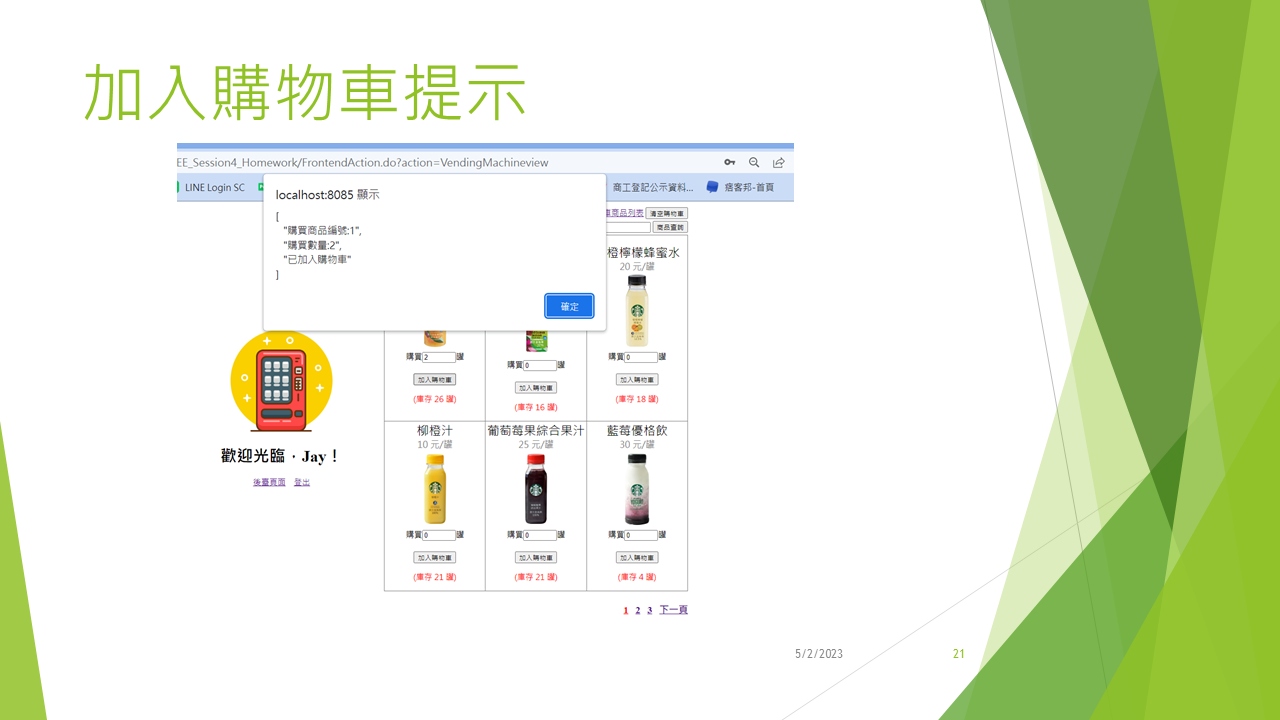
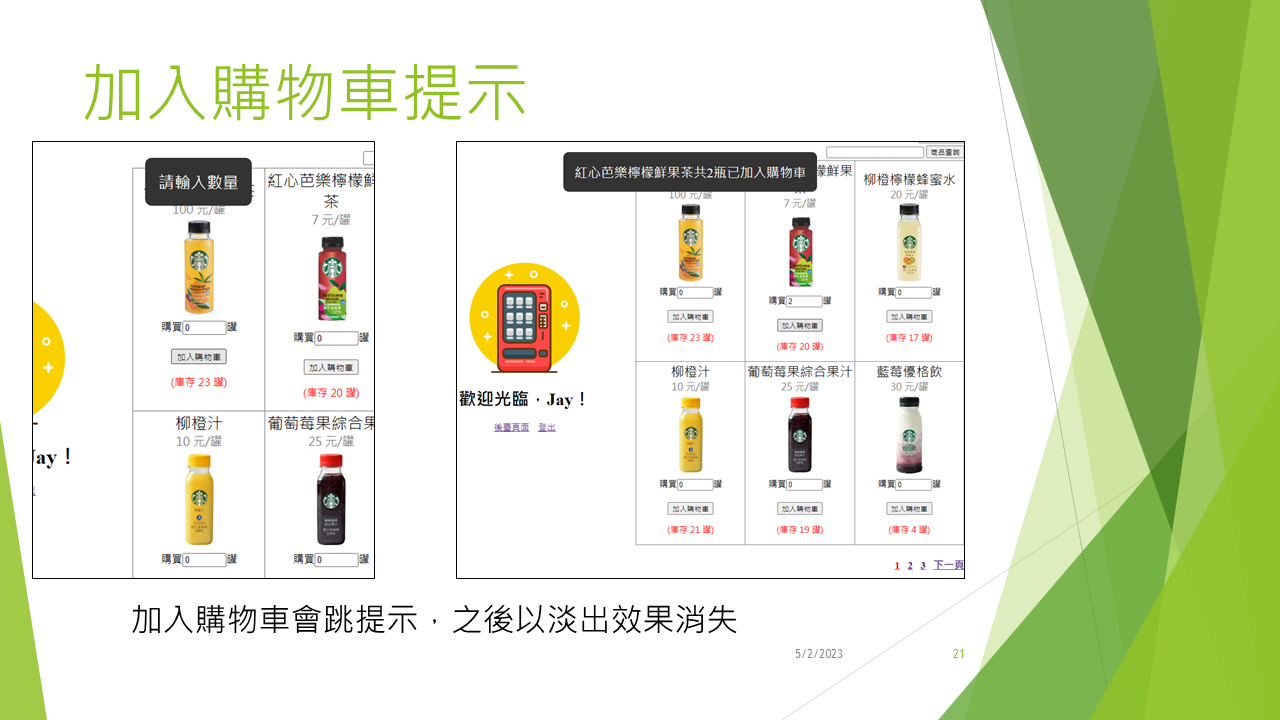
更新簡報及刪除不要的程式碼

Changed region(s): [[0.0938, 0.1833, 0.75, 0.8861], [0.0, 0.4278, 0.0625, 0.5806], [0.0312, 0.6111, 0.0625, 0.6417]]

diff --git a/src/com/training/action/FrontendAction.java b/src/com/training/action/FrontendAction.java
@@ -46,6 +46,8 @@ public class FrontendAction extends DispatchAction{
 		 form=null;
 		 return mapping.findForward("VendingMachine");
 	 }
+	 
+	 //購物車頁面
 	 public ActionForward CartGoodsview(ActionMapping mapping, ActionForm form, 
 	          HttpServletRequest request, HttpServletResponse response)  throws Exception{
 		 HttpSession session = request.getSession();
@@ -56,7 +58,7 @@ public class FrontendAction extends DispatchAction{
 		         Goods key = i.next();
 		         Goods updatedGoods = frontendServic.good(key.getGoodsID()); // 取得要更改的商品
 		         if (updatedGoods != null) {
-		           
+		           //為了避免選的商品在過程中被後台更改數量，所以在進入購物車頁面時會在更新一次商品數量
 		             key.setGoodsQuantity(updatedGoods.getGoodsQuantity());
 		         }
 		     }
@@ -122,9 +124,9 @@ public class FrontendAction extends DispatchAction{
 			HttpSession session = httpRequest.getSession();
 			Account account = (Account) session.getAttribute("account");
 
-		 List<String> buyQuantity =  new ArrayList();
-		 List<String>Values= new ArrayList();
-		ArrayList buyGoodsMsg = new ArrayList();
+		 List<String> buyQuantity =  new ArrayList<String>();
+		 List<String>Values= new ArrayList<String>();
+		ArrayList<String> buyGoodsMsg = new ArrayList<String>();
 		 Map<Goods, Integer>  carGoods= (Map<Goods, Integer>) session.getAttribute("carGoods");
 		 if(carGoods==null){
 			 buyGoodsMsg.add("購物車是空的，請選擇商品");
@@ -139,8 +141,15 @@ public class FrontendAction extends DispatchAction{
 				Values.add((key.getGoodsID()));
 				buyQuantity.add(value.toString());
 			}	 
-			int goodstotal = frontendServic.buyGoods(Values, buyQuantity, //算出總金額
-				 buygood.getInputMoney());
+			
+			//算出商品總金額
+			int goodstotal = 0;
+			for (Map.Entry<Goods, Integer> entry : carGoods.entrySet()) {
+			    Goods goods = entry.getKey();
+			    int quantity = entry.getValue();
+			    goodstotal += goods.getGoodsPrice() * quantity;
+			}
+
 		 boolean buyGood = false;
 		 if (buygood.getInputMoney() < goodstotal) {//判斷是否購買成功
 				buyGood = false;
@@ -157,43 +166,40 @@ public class FrontendAction extends DispatchAction{
 				session.setAttribute("buyGoodsMsg", buyGoodsMsg);
 				return mapping.findForward("CartGoodsview");
 			} else {
-				int x = buygood.getInputMoney();
+				int inputMoney = buygood.getInputMoney();
 				//key商品 vaule購買數量
-				Map<Goods, Integer> kazu = frontendServic.kazu(Values, buyQuantity, //判斷商品庫存並塞入Map
-						buygood.getInputMoney());
-
-				int railgoodstotal = frontendServic.goodstotal2(kazu);
-				Set<Goods> keys2 = kazu.keySet();
-				buyGoodsMsg.add("投入金額:" + x);
-				buyGoodsMsg.add("購買金額:" + railgoodstotal);
-				buyGoodsMsg.add("找零金額:" + (x - railgoodstotal));
+				
+				Set<Goods> keys2 = carGoods.keySet();
+				buyGoodsMsg.add("投入金額:" + inputMoney);
+				buyGoodsMsg.add("購買金額:" + goodstotal);
+				buyGoodsMsg.add("找零金額:" + (inputMoney - goodstotal));
 				for (Iterator<Goods> i = keys2.iterator(); i.hasNext();) {
 					Goods key = i.next();
-					Integer value = kazu.get(key);
+					Integer value = carGoods.get(key);
 					if (value != 0) {
 						buyGoodsMsg.add("商品名稱:" + key.getGoodsName() +" "
 								+ "商品金額:" + key.getGoodsPrice() +" " + "購買數量:"
 								+ value);
 					}
 				}
-				Map<Integer, Goods> CreateGoods = frontendServic.CreateGoods(kazu,
+				//新增訂單資料
+				Map<Integer, Goods> CreateGoods = frontendServic.CreateGoods(carGoods,
 						account.getId());
 //				
-				Set<Goods> keys3 = kazu.keySet();
+				Set<Goods> keys3 = carGoods.keySet();
 				for (Iterator<Goods> i = keys3.iterator(); i.hasNext();) { //扣庫存數量
 					Goods key = i.next();
 					// 再取key的同時也將value一併取回
-					Integer value = kazu.get(key);
+					Integer value = carGoods.get(key);
 					key.setGoodsQuantity(key.getGoodsQuantity()-value);
 				}
 				boolean updateSuccess = frontendServic //更新資料庫
-						.UpdateGoodsQuantity(kazu);
+						.UpdateGoodsQuantity(carGoods);
 				 session.setAttribute("buyGoodsMsg", buyGoodsMsg);
 				 session.removeAttribute("carGoods");
 				return mapping.findForward("VendingMachine");
 			}
-//		 session.setAttribute("buyGoodsMsg", buyGoodsMsg);
-//		 return mapping.findForward("VendingMachine");
+
 	 }
 		
 	 public ActionForward addCartGoods(ActionMapping mapping, ActionForm form, 
@@ -203,9 +209,10 @@ public class FrontendAction extends DispatchAction{
 			String buyQuantity = request.getParameter("buyQuantity");	
 			JSONArray cartMsg = new JSONArray();
 			if(!"".equals(buyQuantity)&&Integer.parseInt(buyQuantity)>0){
-				cartMsg.add("goodsID:" + goodsID);
-				cartMsg.add("buyQuantity:" + buyQuantity);
+				
 			Goods goods =  BackendDao.shohinsagasu(goodsiD);
+			cartMsg.add(goods.getGoodsName()+"共"+buyQuantity+"瓶已加入購物車");
+		
 			HttpSession session = request.getSession();
 			
 			//先取得購物車
@@ -242,54 +249,17 @@ public class FrontendAction extends DispatchAction{
 		 return null;
 	 }
 	 
-	 
-	 
-	 public ActionForward queryCartGoods(ActionMapping mapping, ActionForm form, 
-	          HttpServletRequest request, HttpServletResponse response)  throws Exception{
-		 HttpSession session = request.getSession();
-		 JSONArray cartMsg = new JSONArray();
-		 Map<Goods, Integer>  carGoods= (Map<Goods, Integer>) session.getAttribute("carGoods");
-		 int total = 0;
-		 if(carGoods==null){
-			 cartMsg.add("目前購物車沒有商品，快去購物吧~");
-		 }else{
-			 Set<Goods> keys = carGoods.keySet();
-			 cartMsg.add("目前購物車商品:");
-				for(Iterator<Goods> i = keys.iterator(); i.hasNext();){
-					Goods key = i.next();	
-					Integer value = carGoods.get(key);
-					cartMsg.add("商品名稱:"+key.getGoodsName());
-					cartMsg.add("商品數量:"+value);
-			 int price = key.getGoodsPrice()*value;
-			 total+=price;
-				}
-		 }
-		 cartMsg.add("總金額:"+total);		
-		 response.setCharacterEncoding("UTF-8");
-			response.setContentType("application/json");
-			PrintWriter out = response.getWriter();
-			out.println(cartMsg);
-			out.flush();
-			out.close();
-		 return null;
-	 }
-	 
-	 
+	 //清除購物車
 	 public ActionForward clearCartGoods(ActionMapping mapping, ActionForm form, 
 	          HttpServletRequest request, HttpServletResponse response)  throws Exception{
 		 HttpSession session = request.getSession();
 		 Map<Goods, Integer>  carGoods= (Map<Goods, Integer>) session.getAttribute("carGoods");
-		 JSONArray cartMsg = new JSONArray();
+		
 		 session.removeAttribute("carGoods");
-		 cartMsg.add("已清除購物車");
-		 response.setCharacterEncoding("UTF-8");
-			response.setContentType("application/json");
-			PrintWriter out = response.getWriter();
-			out.println(cartMsg);
-			out.flush();
-			out.close();
+
 		 return null;
 	 }
+	 //購物車頁面除商品
 	 public ActionForward removeItem(ActionMapping mapping, ActionForm form, 
 	          HttpServletRequest request, HttpServletResponse response)  throws Exception{
 		 
@@ -328,6 +298,7 @@ public class FrontendAction extends DispatchAction{
 	  *
 	  
 	  */
+	 //顯示購物車資料
 	 public ActionForward updateItem(ActionMapping mapping, ActionForm form,
 	            HttpServletRequest request, HttpServletResponse response) throws Exception {
 		 FrontendActionform frontendActionform = (FrontendActionform) form;

diff --git a/src/com/training/service/FrontendServic.java b/src/com/training/service/FrontendServic.java
@@ -28,85 +28,22 @@ public class FrontendServic {
 	private static FrontendDao FrontDao = FrontendDao.getInstance();
 
 
-	public int buyGoods(List<String> values, List<String> buyQuantity,//ok
-			int inputMoney) {
-		int total = 0;
-		for (int x = 0; x < values.size(); x++) {
-			if (Integer.parseInt(buyQuantity.get(x)) != 0) {//如果購買數量不為0,取得商品地圖
-				Set<BigDecimal> goodsIDs = new HashSet<>();
-				goodsIDs.add(new BigDecimal(values.get(x)));
-				Map<BigDecimal, Goods> buyGoods = FrontDao
-						.queryBuyGoods(goodsIDs);
-				Set<BigDecimal> keys = buyGoods.keySet();
-				for (Iterator<BigDecimal> i = keys.iterator(); i.hasNext();) {
-					BigDecimal key = i.next();
-					Goods value = buyGoods.get(key);
-					total += Integer.parseInt(buyQuantity.get(x))
-							* value.getGoodsPrice();
-				}
-			}
-		}
-		
-		return total;
-	}
-
-	public Map<Goods, Integer> kazu(List<String> values, List<String> buyQuantity,
-			int inputMoney) {
-		Map<Goods,Integer> goodsOrders = new HashMap<>();
-		for (int x = 0; x < values.size(); x++) {
-			if (Integer.parseInt(buyQuantity.get(x)) != 0) {
-				Set<BigDecimal> goodsIDs = new HashSet<>();
-				goodsIDs.add(new BigDecimal(values.get(x)));
-				Map<BigDecimal, Goods> buyGoods = FrontDao.queryBuyGoods(goodsIDs);
-				Set<BigDecimal> keys = buyGoods.keySet();
-				for (Iterator<BigDecimal> i = keys.iterator(); i.hasNext();) {
-					BigDecimal key = i.next();
-					Goods value = buyGoods.get(key);
-					Integer GoodsQuantity=value.getGoodsQuantity();
-					if(GoodsQuantity>=Integer.parseInt(buyQuantity.get(x))){ //庫存>購買
-					goodsOrders.put(value,Integer.parseInt(buyQuantity.get(x)));//還要扣庫存
-					
-					}else if(GoodsQuantity<Integer.parseInt(buyQuantity.get(x))&&value.getGoodsQuantity()!=0){ //庫存小於購買,且庫存不等於0
-						goodsOrders.put(value,value.getGoodsQuantity());//庫存扣至0
-						
-					}else{
-						goodsOrders.put(value,0);
-						
-					}
-				}
-			}
-		}
-		return goodsOrders;
-	}
-
-	public int goodstotal2(Map<Goods, Integer> kazu) {
-		Set<Goods> keys = kazu.keySet();
-		int total = 0;
-		for(Iterator<Goods> i = keys.iterator(); i.hasNext();){
-		   Goods key = i.next();
-		   // 再取key的同時也將value一併取回
-		   Integer value = kazu.get(key);
-		   total+=key.getGoodsPrice()*value;
-		}		
-		return total;
-	}
-
-	public Map<Integer, Goods> CreateGoods(Map<Goods, Integer> kazu,
+	public Map<Integer, Goods> CreateGoods(Map<Goods, Integer> carGoods,
 			String customerID) {
-		boolean insertSuccess = FrontDao.batchCreateGoodsOrder(customerID,kazu); //新增訂單資料
+		boolean insertSuccess = FrontDao.batchCreateGoodsOrder(customerID,carGoods); //新增訂單資料
 		Map<Integer,Goods> goodsOrders = new HashMap<>();
-		Set<Goods> keys = kazu.keySet();
+		Set<Goods> keys = carGoods.keySet();
 		for(Iterator<Goods> i = keys.iterator(); i.hasNext();){
 		   Goods key = i.next();
 		   // 再取key的同時也將value一併取回
-		   Integer value = kazu.get(key);
+		   Integer value = carGoods.get(key);
 		   goodsOrders.put(value, key);
 		}		
 		return goodsOrders;
 	}
 
-	public static boolean UpdateGoodsQuantity(Map<Goods, Integer> kazu) {
-		boolean updateSuccess = FrontDao.batchUpdateGoodsQuantity(kazu.keySet().stream().collect(Collectors.toSet()));		
+	public static boolean UpdateGoodsQuantity(Map<Goods, Integer> carGoods) {
+		boolean updateSuccess = FrontDao.batchUpdateGoodsQuantity(carGoods.keySet().stream().collect(Collectors.toSet()));		
 		return updateSuccess;
 	}
 

diff --git a/src/com/training/dao/FrontendDao.java b/src/com/training/dao/FrontendDao.java
@@ -67,9 +67,9 @@ public class FrontendDao {
 	}
 
 	public boolean batchCreateGoodsOrder(String customerID,
-			Map<Goods, Integer> kazu) {
+			Map<Goods, Integer> carGoods) {
 		java.util.Date utilDate = new java.util.Date();
-		Set<Goods> keys = kazu.keySet();
+		Set<Goods> keys = carGoods.keySet();
 		boolean insertSuccess = false;
 
 		String insertSQL = "INSERT INTO BEVERAGE_ORDER(ORDER_ID,ORDER_DATE,CUSTOMER_ID,GOODS_ID,GOODS_BUY_PRICE,BUY_QUANTITY)";
@@ -78,7 +78,7 @@ public class FrontendDao {
 				PreparedStatement pstmt = conn.prepareStatement(insertSQL)) {
 			for (Iterator<Goods> i = keys.iterator(); i.hasNext();) {
 				Goods key = i.next();
-				Integer value = kazu.get(key);
+				Integer value = carGoods.get(key);
 				try {
 
 					pstmt.setTimestamp(1, new Timestamp(utilDate.getTime()));
